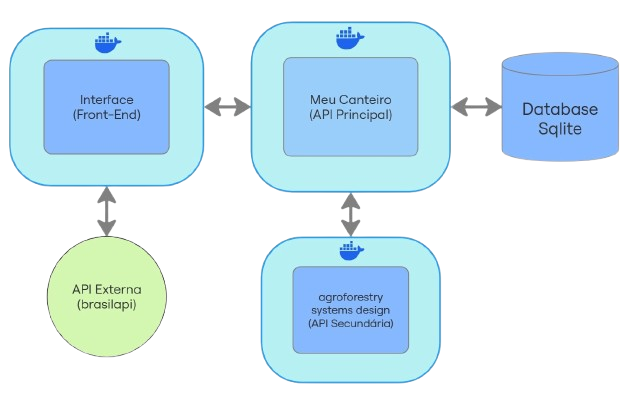
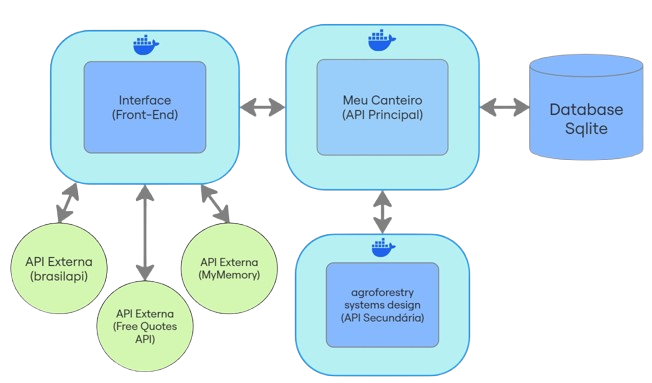
Docs: Update readme

diff --git a/README.md b/README.md
@@ -61,7 +61,17 @@ Retorna a previsão meteorológica para a cidade informada para um período de 1
 - [Termos de uso](https://brasilapi.com.br/#termos-de-uso)
 - [Brasil API DOCS](https://brasilapi.com.br/docs)
 
+## Free Quotes API
+
+Utilizada para exibir frases motivacionais ao usuário, oferecendo uma experiência mais leve e inspiradora durante o uso da aplicação
+
+### Links Free Quotes API
+
+- [Free Quotes API DOCS](https://qapi.vercel.app/docs)
+
 ## MyMemory Translation Memory technology API
+
+API responsável por traduzir as frases motivacionais para o idioma do usuário, garantindo acessibilidade e uma experiência personalizada.
 
 ### Rota
 
